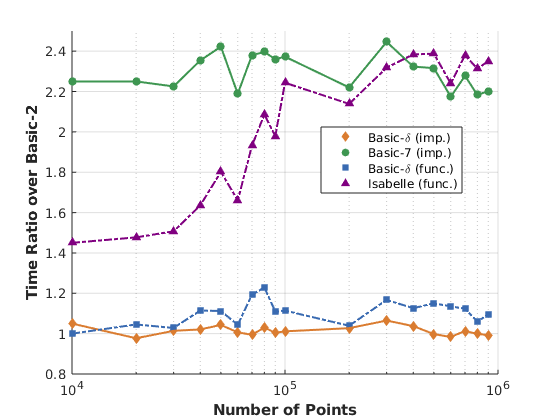
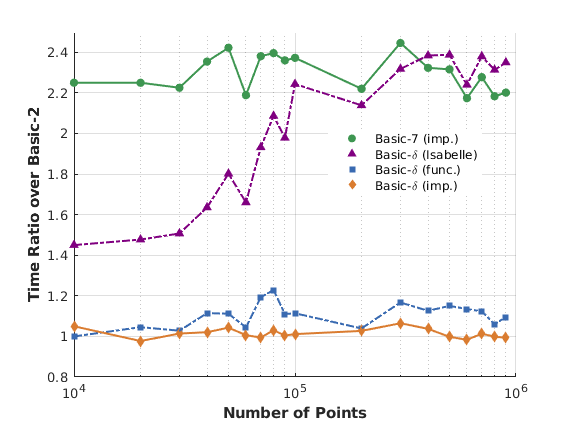
update benchmark figure

diff --git a/benchmark/Benchmarks.m b/benchmark/Benchmarks.m
@@ -22,12 +22,14 @@ wm_o_j = dot(o./j, w);
 wm_c_j = dot(c./j, w);
 wm_i_o = dot(i./o, w);
 wm_c_o = dot(c./o, w);
+wm_c_s = dot(c./s, w);
 
-fprintf('Isabelle/Basic-2: Mean %f WMean %f\n', mean(i./j), wm_i_j)
-fprintf('Basic-D/Basic-2 : Mean %f WMean %f\n', mean(o./j), wm_o_j)
-fprintf('Basic-7/Basic-2 : Mean %f WMean %f\n', mean(c./j), wm_c_j)
-fprintf('Isabelle/Basic-D: Mean %f WMean %f\n', mean(i./o), wm_i_o)
-fprintf('Basic-7/Basic-D : Mean %f WMean %f\n', mean(c./o), wm_c_o)
+fprintf('Isabelle/Basic-2 : Mean %f WMean %f\n', mean(i./j), wm_i_j)
+fprintf('Basic-D/Basic-2  : Mean %f WMean %f\n', mean(o./j), wm_o_j)
+fprintf('Basic-7/Basic-2  : Mean %f WMean %f\n', mean(c./j), wm_c_j)
+fprintf('Isabelle/OCaml   : Mean %f WMean %f\n', mean(i./o), wm_i_o)
+fprintf('Basic-7/OCaml    : Mean %f WMean %f\n', mean(c./o), wm_c_o)
+fprintf('Basic-7/Sedgewick: Mean %f WMean %f\n', mean(c./s), wm_c_s)
 
 %% Non-linear regression
 model = @(beta,x)(beta(1) + beta(2).*x + beta(3).*x.*log2(x));
@@ -93,15 +95,15 @@ figure
 hold on
 grid on
 
-scatter(n, s./j, marker_size, orange, 'filled', 'd')
 scatter(n, c./j, marker_size, green , 'filled', 'o')
-scatter(n, o./j, marker_size, blue  , 'filled', 's')
 scatter(n, i./j, marker_size, purple, 'filled', '^')
+scatter(n, o./j, marker_size, blue  , 'filled', 's')
+scatter(n, s./j, marker_size, orange, 'filled', 'd')
 
-plot(n, s./j, 'Color', orange, 'LineWidth', line_width, 'LineStyle', '-')
 plot(n, c./j, 'Color', green , 'LineWidth', line_width, 'LineStyle', '-')
-plot(n, o./j, 'Color', blue  , 'LineWidth', line_width, 'LineStyle', '-.')
 plot(n, i./j, 'Color', purple, 'LineWidth', line_width, 'LineStyle', '-.')
+plot(n, o./j, 'Color', blue  , 'LineWidth', line_width, 'LineStyle', '-.')
+plot(n, s./j, 'Color', orange, 'LineWidth', line_width, 'LineStyle', '-')
 
 set(gca, 'yScale', 'linear', 'yLim', [0.8, 2.5]);
 set(gca, 'xScale', 'log');
@@ -109,4 +111,4 @@ set(gca, 'xScale', 'log');
 xlabel('Number of Points' , 'FontWeight', 'bold')
 ylabel('Time Ratio over Basic-2', 'FontWeight', 'bold')
 
-legend('Basic-\delta (imp.)', 'Basic-7 (imp.)', 'Basic-\delta (func.)', 'Isabelle (func.)', 'Location', 'best')
+legend('Basic-7 (imp.)', 'Basic-\delta (Isabelle)', 'Basic-\delta (func.)', 'Basic-\delta (imp.)', 'Location', 'best')
